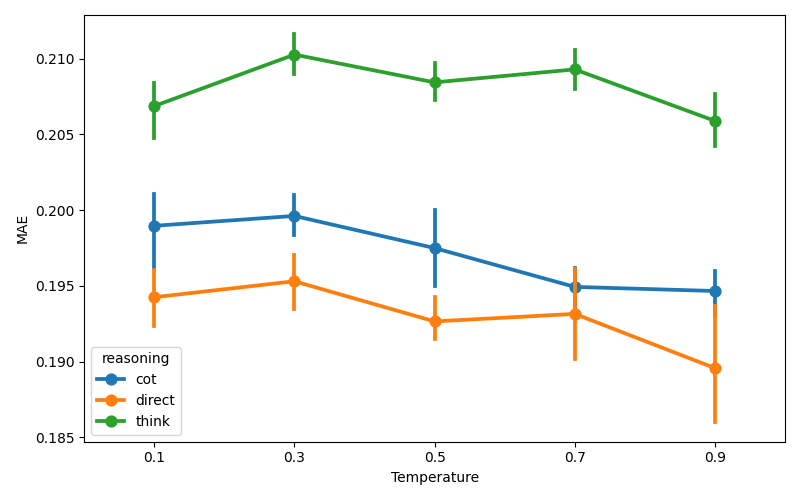
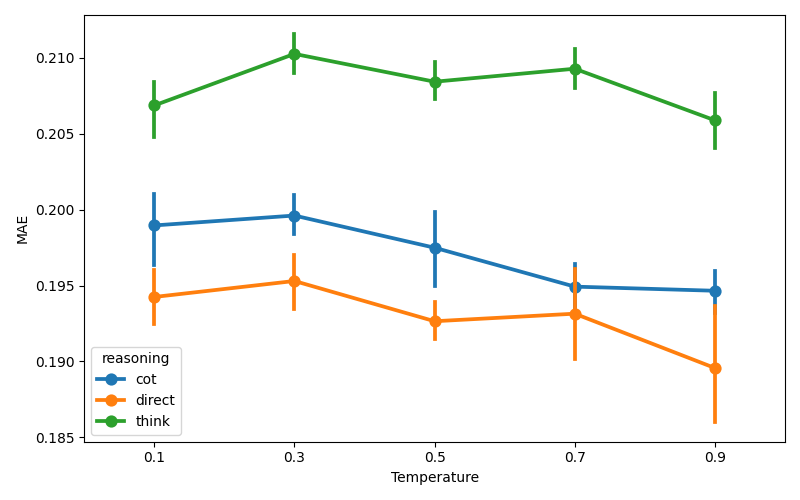
update

diff --git a/analysis/analyze_inference.py b/analysis/analyze_inference.py
@@ -184,16 +184,37 @@ print(f"Aggregate rows: {len(agg)}")
 # Descriptive Statistics
 # ============================================================
 
-desc = agg.groupby(
+# Pearson / Spearman aus den Aggregate-Zeilen
+desc_corr = agg.groupby(
     ["temperature", "reasoning"]
 )[[
     "pearson_mean",
-    "spearman_mean",
-    "mae"
+    "spearman_mean"
 ]].agg(["mean", "std"])
 
-desc.to_csv(OUTPUT_DIR / "descriptive_stats.csv")
+# MAE aus den Sample-Zeilen berechnen
+sample_desc = df[df["type"] == "sample"].copy()
 
+desc_mae = (
+    sample_desc
+    .groupby(
+        ["temperature", "reasoning"]
+    )["mae"]
+    .agg(["mean", "std"])
+)
+
+# gleiche MultiIndex-Struktur wie desc_corr erzeugen
+desc_mae.columns = pd.MultiIndex.from_product(
+    [["mae"], desc_mae.columns]
+)
+
+
+# Zusammenführen
+desc = desc_corr.join(desc_mae)
+
+desc.to_csv(
+    OUTPUT_DIR / "descriptive_stats.csv"
+)
 
 # ============================================================
 # Pearson
